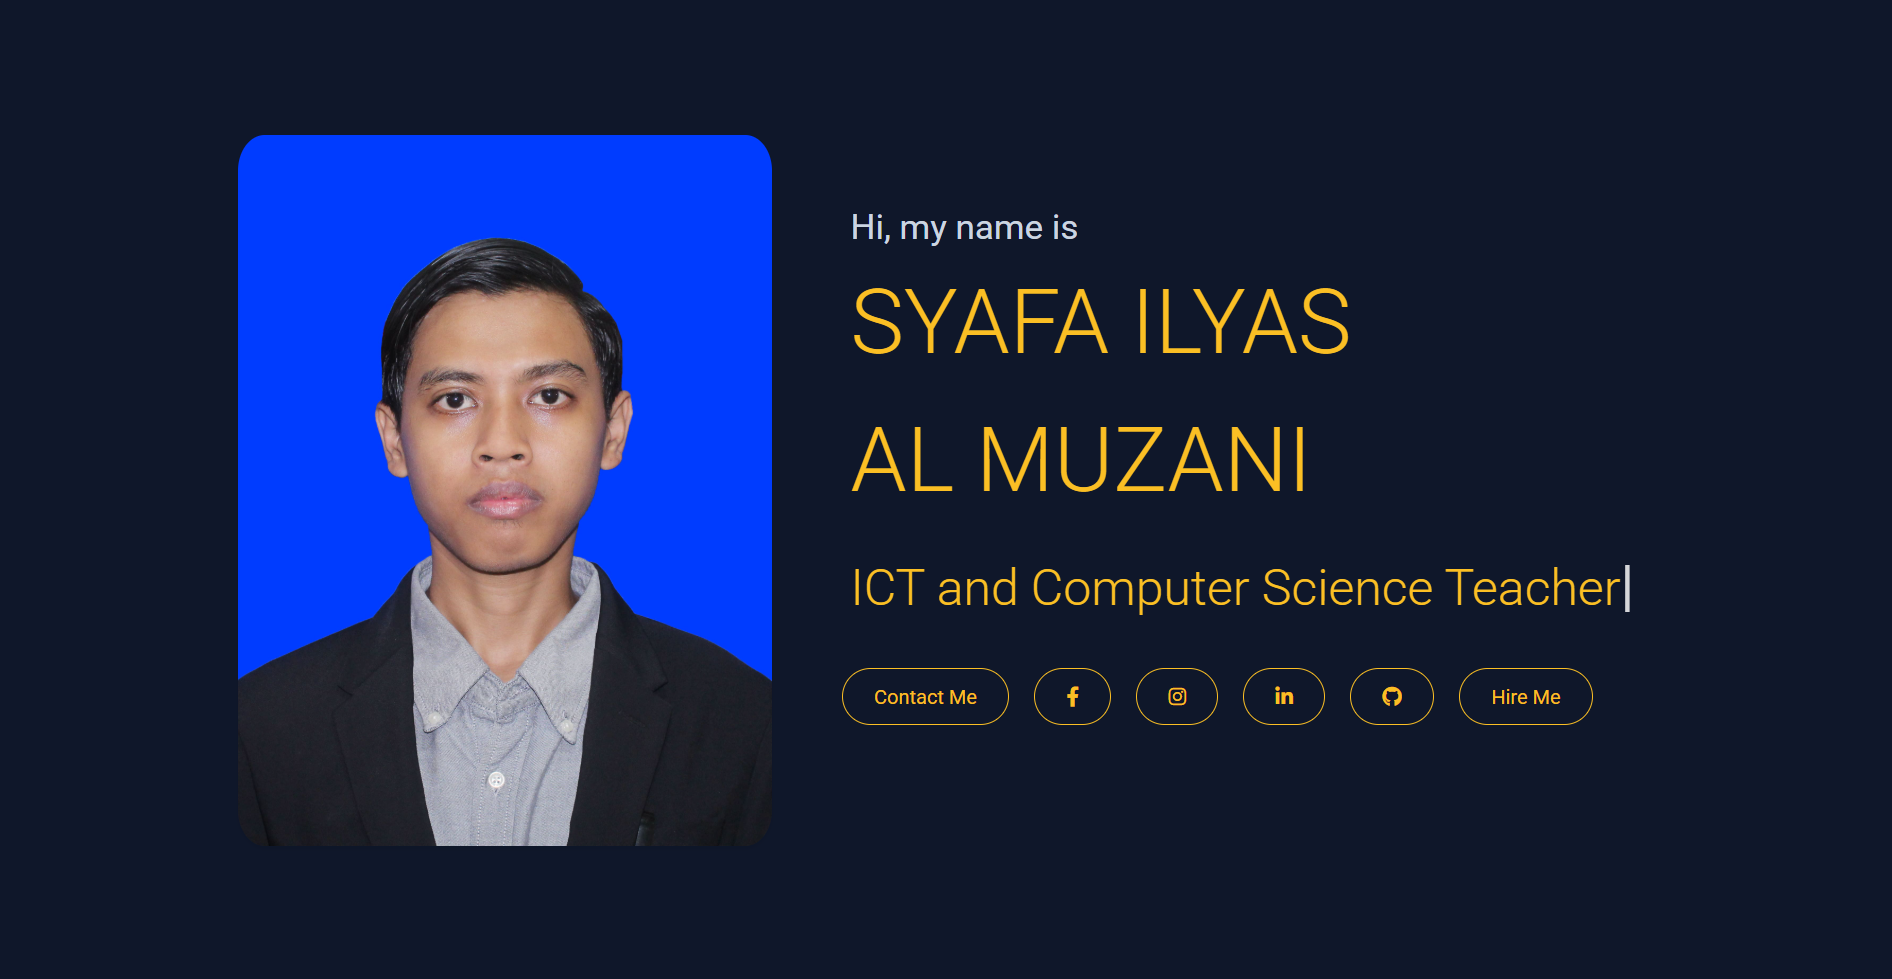
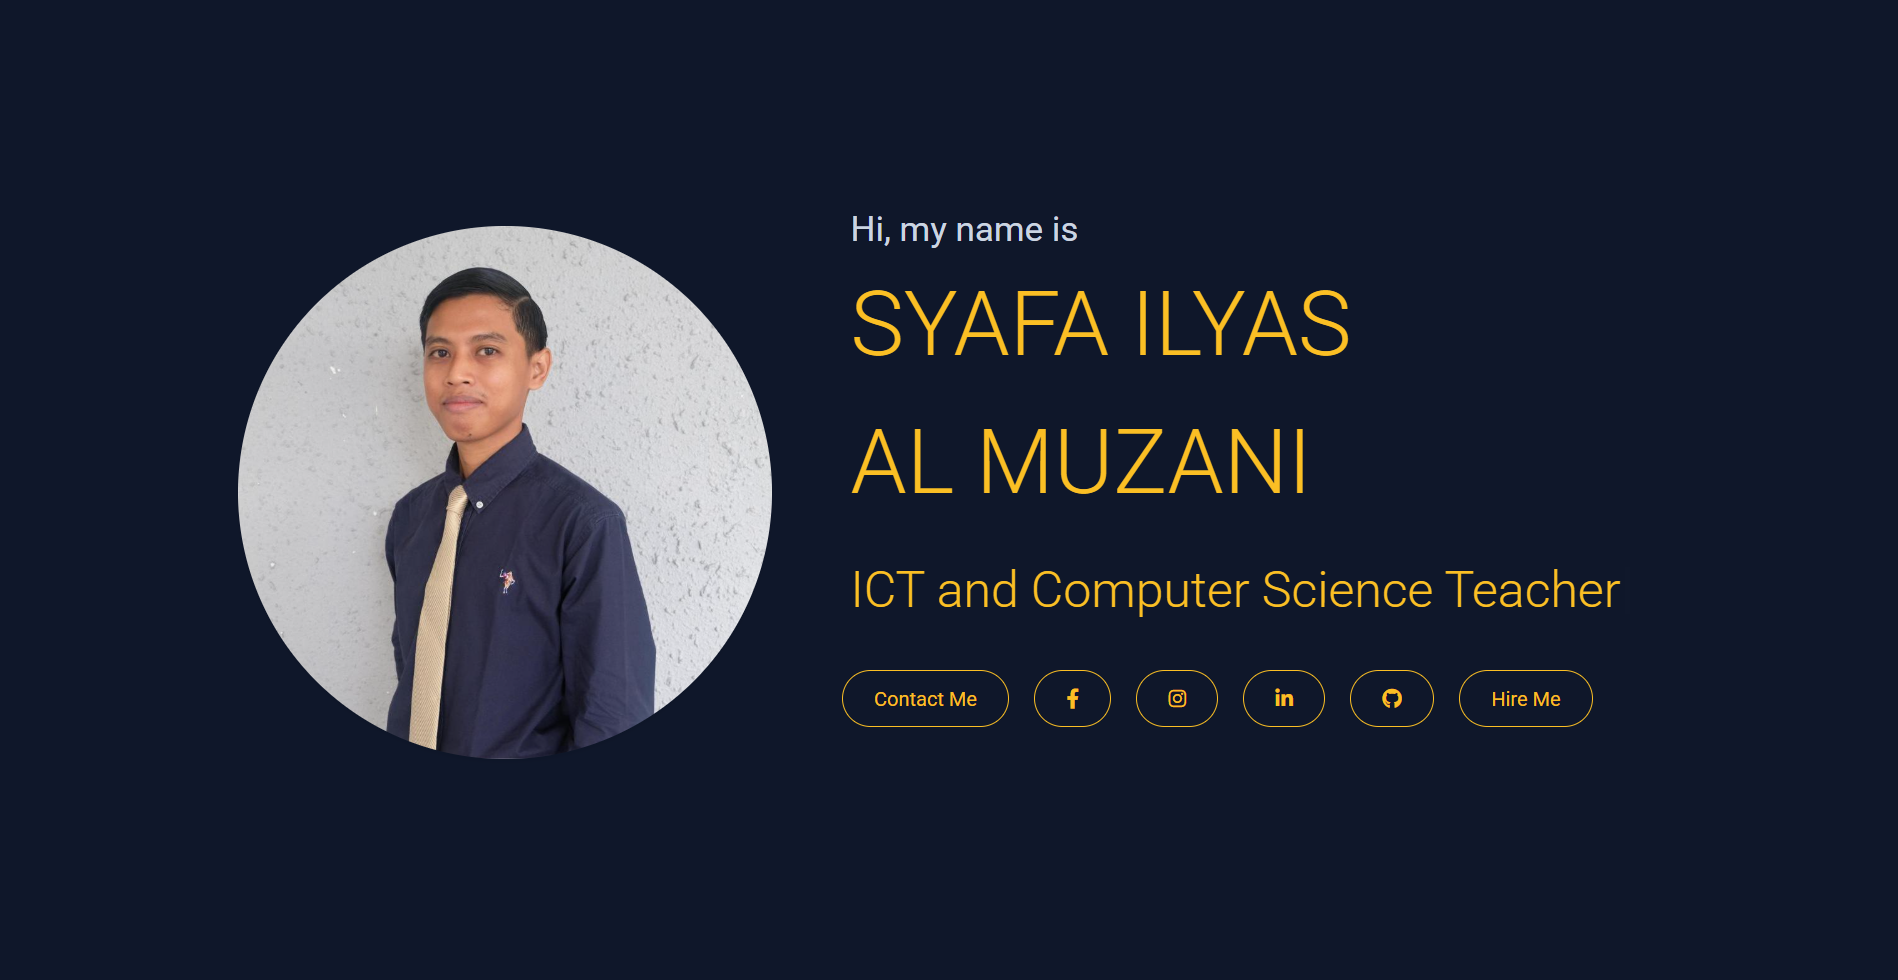
14th commit

diff --git a/css/style.css b/css/style.css
@@ -6551,7 +6551,7 @@ button.bg-dark:focus {
 }
 
 .rounded-circle {
-  border-radius: 5% !important;
+  border-radius: 50% !important;
 }
 
 .rounded-pill {
